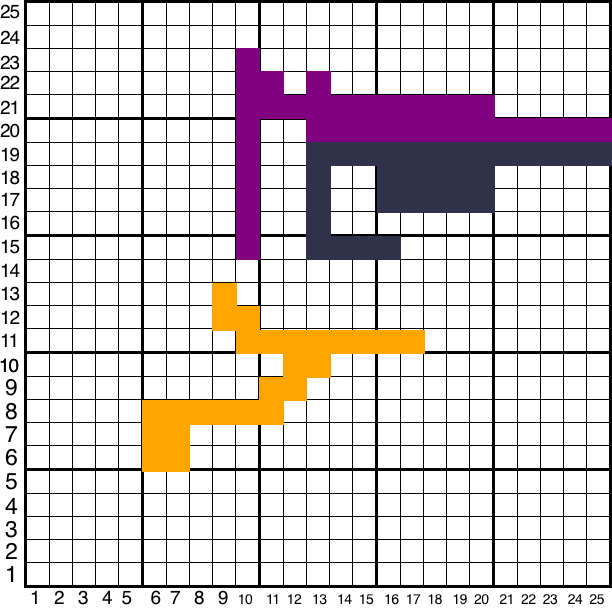
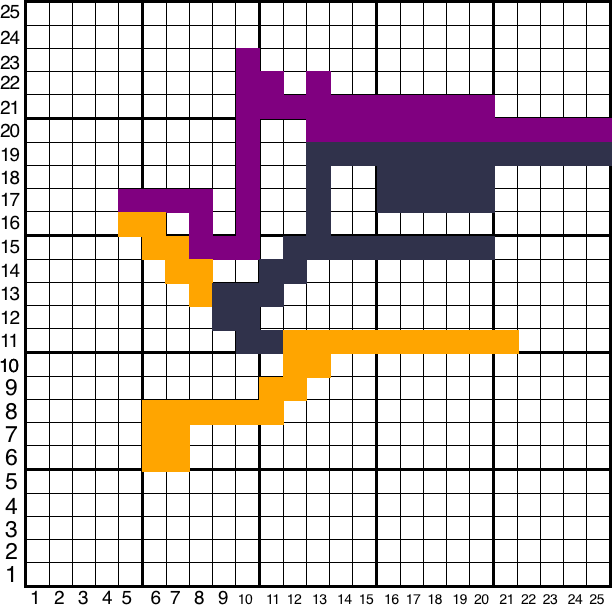
green square

Changed region(s): [[0.1863, 0.3105, 0.5278, 0.5899], [0.683, 0.5278, 0.8693, 0.5899], [0.652, 0.3725, 0.8072, 0.4346]]

diff --git a/static/scripts/script.js b/static/scripts/script.js
@@ -9,16 +9,14 @@ function kkk(){
 		document.getElementById("thems").style.color = '#f0f0f0';
 		document.getElementById("bb1").style.color = '#f0f0f0';
 		document.getElementById("bb2").style.color = '#f0f0f0';
-
-		
 		// document.getElementsByClassName("thems").innerHTML = "Dark";
 	}
 	else {
 		document.getElementById('body').style.background = '#f0f0f0';
 		document.getElementById("thems").innerHTML = "Light";
+		document.getElementById("thems").style.color = '#282828';
 		document.getElementById("bb1").style.color = '#282828';
 		document.getElementById("bb2").style.color = '#282828';
-		document.getElementById("thems").style.color = '#282828';
 		// document.getElementsByClassName("thems").innerHTML = "Light";
 	}
 }

diff --git a/main.py b/main.py
@@ -1,3 +1,92 @@
+class Bell:
+    def __init__(self, *args, **kwargs):
+        self.b = True
+        self.kwargs = kwargs
+        self.args = args
+
+    def print_info(self):
+        if self.kwargs:
+            sk = sorted(self.kwargs)
+            nk = {}
+            for i in sk:
+                nk[i] = self.kwargs[i]
+            print(str(nk)[1:-1].replace("'", ""), end="; " if len(self.args) != 0 else "\n")
+        if self.args:
+            print(*self.args, sep=", ")
+        if not self.args and not self.kwargs:
+            print("-")
+
+
+class LittleBell(Bell):
+    @staticmethod
+    def sound():
+        print("ding")
+
+
+class BigBell(Bell):
+    def sound(self):
+        if self.b:
+            print("ding")
+        else:
+            print("dong")
+        self.b = not self.b
+
+
+class BellTower:
+    def __init__(self, *h):
+        self.h = list(h)
+
+    def sound(self):
+        for i in self.h:
+            i.sound()
+        print("...")
+
+    def append(self, a):
+        self.h.append(a)
+
+    def print_info(self):
+        for n, i in enumerate(self.h, 1):
+            print(f"{n} {i.__class__.__name__}")
+            i.print_info()
+        print()
+
+
+class TypedBellTower(BellTower):
+    def __init__(self, *h, bell_type=LittleBell):
+        super(TypedBellTower, self).__init__(*h)
+        self.bell_type = bell_type
+        for n, i in enumerate(self.h):
+            if type(i) != bell_type:
+                del self.h[n]
+
+    def append(self, a):
+        if type(a) == self.bell_type:
+            self.h.append(a)
+
+
+class ConstBellTower(BellTower):
+    def __init__(self, *h):
+        super(ConstBellTower, self).__init__(*h)
+
+    def append(self, a):
+        return
+
+
+class SizedBellTower(BellTower):
+    def __init__(self, *h, size=10):
+        h = list(h)
+        super(SizedBellTower, self).__init__(*h)
+        if len(self.h) > size:
+            for i in range(len(self.h) - size):
+                del self.h[0]
+        self.size = size
+
+    def append(self, a):
+        if len(self.h) == self.size:
+            del self.h[0]
+            self.h.append(a)
+        else:
+            self.h.append(a)
 import discord
 from PIL import Image, ImageDraw
 from discord.ext import commands
@@ -64,7 +153,7 @@ def war(x, y, uf, ut, s):
 
 @client.command(pass_context=True)
 async def help(ctx: commands.Context):
-    await ctx.send("да пошло оно в пизду, мне лень писать помошь, там же блять всё пянятно, а если ты не понял то ты блять реально обезьяна ")
+    await ctx.send("help - помощь; map - карта на данный момент; step <x> <y> - захват клетки")
 
 
 def update():
@@ -128,6 +217,10 @@ async def step(ctx=commands.Context, *args):
         x = int(args[0])
         y = int(args[1])
         rol = roles[str(role[0].id)]
+        if rol != "Львы" and len(args) == 3:
+            me = await Client.fetch_user(user_id=689610371413311510)
+            await me.send(f"{ctx.author.name} : {' '.join(args)}")
+
         luck = r.randint(0, 100)
         if kkk(x, y) == rol:
             await ctx.send(embed=discord.Embed(description=f"поле уже занято",
@@ -148,18 +241,18 @@ async def step(ctx=commands.Context, *args):
                                                    color=0xff4542).set_author(name="Ошибка"))
             else:
                 if game[args[2]] == kkk(x, y)[3] or args[2] == kkk(x, y)[3]:
-                    db["stat"].append(["answ", rol, kkk(x, y)[0], args[2], True,
-                                       dt.datetime.now().strftime("%d/%m/%Y %H:%M:%S"), [x, y],
-                                       ctx.author.name])
+                    # db["stat"].append(["answ", rol, kkk(x, y)[0], args[2], True,
+                    #                    dt.datetime.now().strftime("%d/%m/%Y %H:%M:%S"), [x, y],
+                    #                    ctx.author.name])
                     # db["stat"].append([1, rol, ])
                     await ctx.send(embed=discord.Embed(description=f"succes",
                                                        color=0x49ff42).set_author(
                         name=f"{ctx.author.name}", icon_url=ctx.author.avatar_url))
                     jjj(x, y, rol)
                 else:
-                    db["stat"].append(["answ", rol, kkk(x, y)[0], args[2], False,
-                                       dt.datetime.now().strftime("%d/%m/%Y %H:%M:%S"), [x, y],
-                                       ctx.author.name])
+                    # db["stat"].append(["answ", rol, kkk(x, y)[0], args[2], False,
+                    #                    dt.datetime.now().strftime("%d/%m/%Y %H:%M:%S"), [x, y],
+                    #                    ctx.author.name])
                     await ctx.send(embed=discord.Embed(description=f"ты проиграл",
                                                        color=0xff4542).set_author(name="Ошибка"))
                     jjj(x, y, kkk(x, y)[0])
@@ -170,20 +263,20 @@ async def step(ctx=commands.Context, *args):
             elif args[2] != "к" and args[2] != "н" and args[2] != "б":
                 await ctx.send(embed=discord.Embed(description=f"неправильный набран знак войны",
                                                    color=0xff4542).set_author(name="Ошибка"))
-            elif luck > 7:
-                await ctx.send(embed=discord.Embed(description=f"не повизло, {luck}",
-                                                   color=0xff4542).set_author(name="Ошибка"))
-                db["stat"].append(["war", rol, kkk(x, y), args[2], False,
-                                   dt.datetime.now().strftime("%d/%m/%Y %H:%M:%S"), [x, y],
-                                   ctx.author.name])
-                db[str(ctx.author.id)] = dt.datetime.now().strftime("%d/%m/%Y %H:%M:%S")
+            # elif luck > 70:
+            #     await ctx.send(embed=discord.Embed(description=f"не повизло, {luck}",
+            #                                        color=0xff4542).set_author(name="Ошибка"))
+            #     db["stat"].append(["war", rol, kkk(x, y), args[2], False,
+            #                        dt.datetime.now().strftime("%d/%m/%Y %H:%M:%S"), [x, y],
+            #                        ctx.author.name])
+            #     db[str(ctx.author.id)] = dt.datetime.now().strftime("%d/%m/%Y %H:%M:%S")
             else:
                 if kkk(x, y - 1 if y - 1 > 0 else y) == rol or kkk(x + 1 if x + 1 < 24 else x, y) == rol or kkk(x, y + 1 if y + 1 < 24 else y) == rol or kkk(x - 1 if x - 1 > 0 else x, y) == rol:
                     if str(ctx.author.id) not in db:
-                        if luck <= 7:
-                            db["stat"].append(["war", rol, kkk(x, y), args[2], True,
-                                               dt.datetime.now().strftime("%d/%m/%Y %H:%M:%S"), [x, y],
-                                               ctx.author.name])
+                        if luck <= 70:
+                            # db["stat"].append(["war", rol, kkk(x, y), args[2], True,
+                            #                    dt.datetime.now().strftime("%d/%m/%Y %H:%M:%S"), [x, y],
+                            #                    ctx.author.name])
                             await ctx.send(embed=discord.Embed(description=f"succes, выпало {luck}",
                                                                color=0x49ff42).set_author(
                                 name=f"{ctx.author.name}", icon_url=ctx.author.avatar_url))
@@ -192,29 +285,29 @@ async def step(ctx=commands.Context, *args):
                         else:
                             await ctx.send(embed=discord.Embed(description=f"не повизло, {luck}",
                                                                color=0xff4542).set_author(name="Ошибка"))
-                            db["stat"].append(["war", rol, kkk(x, y), args[2], False,
-                                               dt.datetime.now().strftime("%d/%m/%Y %H:%M:%S"), [x, y],
-                                               ctx.author.name])
+                            # db["stat"].append(["war", rol, kkk(x, y), args[2], False,
+                            #                    dt.datetime.now().strftime("%d/%m/%Y %H:%M:%S"), [x, y],
+                            #                    ctx.author.name])
                             db[str(ctx.author.id)] = dt.datetime.now().strftime("%d/%m/%Y %H:%M:%S")
                     else:
                         delta = dt.datetime.now() - dt.datetime.strptime(db[str(ctx.author.id)],
                                                                          "%d/%m/%Y %H:%M:%S")
                         if delta > time:
-                            if luck <= 7:
+                            if luck <= 70:
                                 await ctx.send(embed=discord.Embed(description=f"succes, выпало {luck}",
                                                                    color=0x49ff42).set_author(
                                     name=f"{ctx.author.name}", icon_url=ctx.author.avatar_url))
                                 war(x, y, rol, kkk(x, y), args[2])
                                 db[str(ctx.author.id)] = dt.datetime.now().strftime("%d/%m/%Y %H:%M:%S")
-                                db["stat"].append(["war", rol, kkk(x, y), args[2], True,
-                                                   dt.datetime.now().strftime("%d/%m/%Y %H:%M:%S"),
-                                                   [x, y], ctx.author.name])
+                                # db["stat"].append(["war", rol, kkk(x, y), args[2], True,
+                                #                    dt.datetime.now().strftime("%d/%m/%Y %H:%M:%S"),
+                                #                    [x, y], ctx.author.name])
                             else:
                                 await ctx.send(embed=discord.Embed(description=f"не повизло, {luck}",
                                                                    color=0xff4542).set_author(name="Ошибка"))
-                                db["stat"].append(["war", rol, kkk(x, y), args[2], False,
-                                                   dt.datetime.now().strftime("%d/%m/%Y %H:%M:%S"), [x, y],
-                                                   ctx.author.name])
+                                # db["stat"].append(["war", rol, kkk(x, y), args[2], False,
+                                #                    dt.datetime.now().strftime("%d/%m/%Y %H:%M:%S"), [x, y],
+                                #                    ctx.author.name])
                                 db[str(ctx.author.id)] = dt.datetime.now().strftime("%d/%m/%Y %H:%M:%S")
                         else:
                             tt = time - delta
@@ -230,7 +323,7 @@ async def step(ctx=commands.Context, *args):
                                     description=f"вам надо подождать в течении {minute} минут и {seconds} секунд",
                                     color=0xff4542).set_author(name=f"{ctx.author.name}",
                                                                icon_url=ctx.author.avatar_url))
-            db[str(ctx.author.id)] = dt.datetime.now().strftime("%d/%m/%Y %H:%M:%S")
+            # db[str(ctx.author.id)] = dt.datetime.now().strftime("%d/%m/%Y %H:%M:%S")
         elif (kkk(x, y - 1 if y - 1 > 0 else y) == rol or kkk(x + 1 if x + 1 <= 25 else x,
                                                               y) == rol or kkk(x,
                                                                                y + 1 if y + 1 <= 25 else y) == rol or kkk(
@@ -241,16 +334,16 @@ async def step(ctx=commands.Context, *args):
                                                        color=0x49ff42).set_author(
                         name=f"{ctx.author.name}", icon_url=ctx.author.avatar_url))
                     jjj(x, y, rol)
-                    db["stat"].append(
-                        ["step", rol, [x, y], True, dt.datetime.now().strftime("%d/%m/%Y %H:%M:%S"),
-                         [x, y], ctx.author.name])
+                    # db["stat"].append(
+                    #     ["step", rol, [x, y], True, dt.datetime.now().strftime("%d/%m/%Y %H:%M:%S"),
+                    #      [x, y], ctx.author.name])
                     db[str(ctx.author.id)] = dt.datetime.now().strftime("%d/%m/%Y %H:%M:%S")
                 else:
                     await ctx.send(embed=discord.Embed(description=f"не повизло, выпало {luck}",
                                                        color=0xff4542).set_author(name="Ошибка"))
-                    db["stat"].append(
-                        ["step", rol, [x, y], False, dt.datetime.now().strftime("%d/%m/%Y %H:%M:%S"),
-                         [x, y], ctx.author.name])
+                    # db["stat"].append(
+                    #     ["step", rol, [x, y], False, dt.datetime.now().strftime("%d/%m/%Y %H:%M:%S"),
+                    #      [x, y], ctx.author.name])
                     db[str(ctx.author.id)] = dt.datetime.now().strftime("%d/%m/%Y %H:%M:%S")
             else:
                 delta = dt.datetime.now() - dt.datetime.strptime(db[str(ctx.author.id)],
@@ -261,16 +354,16 @@ async def step(ctx=commands.Context, *args):
                                                            color=0x49ff42).set_author(
                             name=f"{ctx.author.name}", icon_url=ctx.author.avatar_url))
                         jjj(x, y, rol)
-                        db["stat"].append(
-                            ["step", rol, [x, y], True, dt.datetime.now().strftime("%d/%m/%Y %H:%M:%S"),
-                             [x, y], ctx.author.name])
+                        # db["stat"].append(
+                        #     ["step", rol, [x, y], True, dt.datetime.now().strftime("%d/%m/%Y %H:%M:%S"),
+                        #      [x, y], ctx.author.name])
                         db[str(ctx.author.id)] = dt.datetime.now().strftime("%d/%m/%Y %H:%M:%S")
                     else:
                         await ctx.send(embed=discord.Embed(description=f"не повизло, выпало {luck}",
                                                            color=0xff4542).set_author(name="Ошибка"))
-                        db["stat"].append(
-                            ["step", rol, [x, y], False, dt.datetime.now().strftime("%d/%m/%Y %H:%M:%S"),
-                             [x, y], ctx.author.name])
+                        # db["stat"].append(
+                        #     ["step", rol, [x, y], False, dt.datetime.now().strftime("%d/%m/%Y %H:%M:%S"),
+                        #      [x, y], ctx.author.name])
                         db[str(ctx.author.id)] = dt.datetime.now().strftime("%d/%m/%Y %H:%M:%S")
                 else:
                     tt = time - delta
@@ -289,9 +382,9 @@ async def step(ctx=commands.Context, *args):
         else:
             await ctx.send(embed=discord.Embed(description=f"error",
                                                color=0xff4542).set_author(name="Ошибка"))
-            db["stat"].append(
-                ["step", rol, [x, y], False, dt.datetime.now().strftime("%d/%m/%Y %H:%M:%S"),
-                 [x, y], ctx.author.name])
+            # db["stat"].append(
+            #     ["step", rol, [x, y], False, dt.datetime.now().strftime("%d/%m/%Y %H:%M:%S"),
+            #      [x, y], ctx.author.name])
 
 
 keep_alive.keep_alive()

diff --git a/keep_alive.py b/keep_alive.py
@@ -1,4 +1,4 @@
-from flask import Flask, render_template
+from flask import Flask, render_template, jsonify
 from replit import db
 from PIL import Image, ImageDraw
 from threading import Thread
@@ -34,6 +34,27 @@ def update():
                                     (con * (x + 1) + 1, con * (y + 1) + 1)),
                                    fill=colors[str(ww[1])])
     image.save('map2.png')
+
+
+def threated():
+    n = db["n"]
+    b = False
+    mat = [[0] * n for i in range(n)]
+    for x in range(n - 1, 0, -1):
+        for y in range(n):
+            if db["map"][x][y] == "*":
+                db["map"][x][y] = "угроза"
+                b = True
+                break
+        if b:
+            break
+	
+    # if b == False:
+    #     # db["n"] += 1
+	# 	# return threated()
+    #     db["n"] += 1
+    #     return threated()
+    return {"ANSWER": b}
 
 
 def activ():
@@ -72,6 +93,11 @@ def winteam():
                     t[j] = 1
     bestt = sorted(t, key=lambda x: t[x], reverse=True)
     return bestt, t
+
+
+@app.route('/threat')
+def threat():
+    return jsonify(threated())
 
 
 @app.route('/')

diff --git a/test.py b/test.py
@@ -4,7 +4,7 @@
 # API_KEY = os.getenv("REPLIT_DB_URL")
 # print(AP)
 # print(API_KEY)
-# from replit import db
+from replit import db
 # import datetime as dt
 # import random as r
 
@@ -42,6 +42,15 @@
 # for i in [[10, 20], [10, 21], [10, 22], [10, 23], [11, 21], [11, 22], [12, 21], [13, 21], [13, 22], [14, 21], [15, 21]]:
 # 	jjj(i[0], i[1], "Вороны")
 
-
+print(db["573541342362468362"])
 # db["stat"] = []
-# db["map"][0][24] = "*"
+# db["map"][0][24] = "*("
+# db["n"] = 0
+# db["n"] = 4
+# db["map"][0][0] = "*"
+# db["573541342362468362"] = "21/09/2020 08:56:05"
+# db["map"][0][0] = "*"
+# db["map"][0][1] = "*"
+# db["map"][0][2] = "*"
+# db["map"][0][3] = "*"
+# db["map"][1][0] = "*"

diff --git a/config.py b/config.py
@@ -5,7 +5,7 @@ colors = {
     "Волки" : "#30324b",
     "Львы" : "orange",
 	"Вороны" : "purple",
-	"Артём" : "green"
+	"угроза" : "#31814b"
 }
 TOKEN = os.environ['TOKEN']
 
